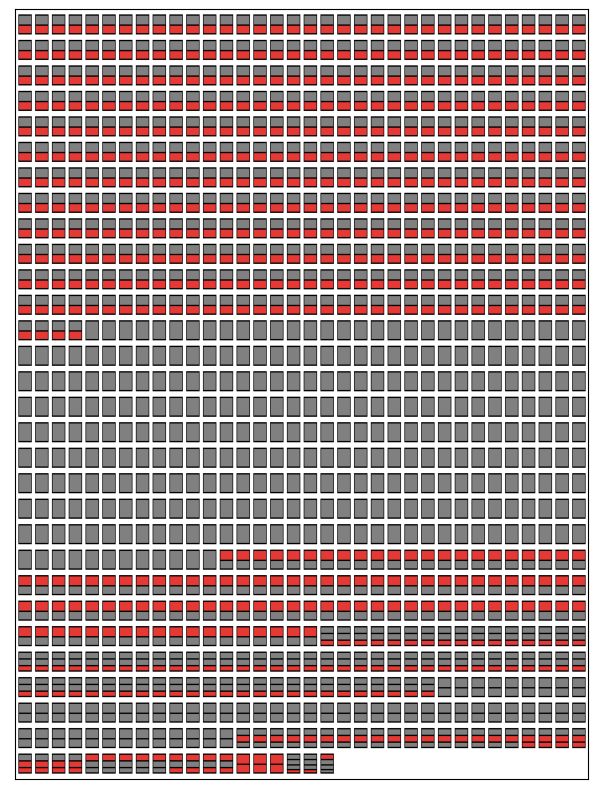
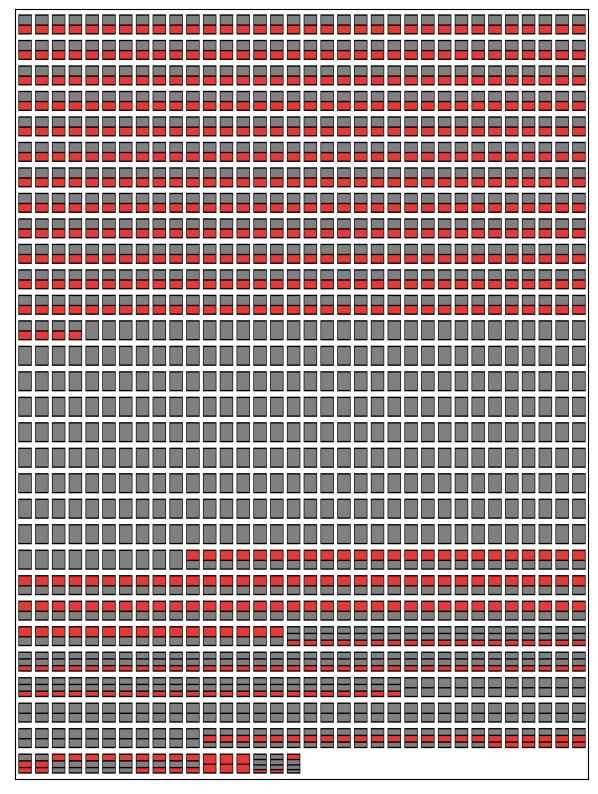
Fix encoding double marker bug.

diff --git a/assets/airline-names-01/scripts/encoding.py b/assets/airline-names-01/scripts/encoding.py
@@ -65,26 +65,45 @@ def encode_name_by_token_marker(
 
     for word in name.split():
 
-        if word in tokens:
+        if word in tokens or word in markers:
             encoded.append("T")
             continue
 
-        for marker in markers:
-            if word.startswith(marker):
-                encoded.append("t")
-                encoded.append("s")
-                break
+        if _starts_with_from_set(word, markers):
+            encoded.append("t")
 
-            if word.endswith(marker):
-                encoded.append("s")
+            if _ends_with_from_set(word, markers):
                 encoded.append("t")
-                break
-        else:
-            encoded.append("S")
+                continue
+
+            encoded.append("s")
+            continue
+
+        if _ends_with_from_set(word, markers):
+            encoded.append("s")
+            encoded.append("t")
+            continue
+
+        encoded.append("S")
 
     encoded = tuple(encoded)
 
     return encoded
+
+def _ends_with_from_set(string, strings):
+
+    for str_ in strings:
+        if string.endswith(str_):
+            return True
+    return False
+
+def _starts_with_from_set(string, strings):
+    
+    for str_ in strings:
+        if string.startswith(str_):
+            return True
+    return False
+
 
 
 def translate_to_colours(

diff --git a/_posts/2024-07-20-airline-names-01.md b/_posts/2024-07-20-airline-names-01.md
@@ -121,7 +121,7 @@ The following markers were indentified alltogether:
 
 ### Airline name patterns summary
 
-Having identified the markers and the specifier fragments, more granular naming patterns emerge -- twenty of them. Eighty percent of all names contain at least one reference to air travel. Whole word tokens are four times more prevalent than the markers.
+Having identified the markers and the specifier fragments, more granular naming patterns emerge -- twenty two of them. Eighty percent of all names contain at least one reference to air travel. Whole word tokens are four times more prevalent than the markers.
 
 Figure 6. arranges the airline names according to their naming patters. Markers are coloured in orange, fragment specifiers are distinguished by their pale gray shade.
 
@@ -138,23 +138,25 @@ Figure 7. The counts of airline naming patterns. Read each stack from top to bot
 
 Finally, an example of each pattern is provided below:
 1. `ST`: `Alaska Airlines`
-1. `S`: `Emirates`
-1. `st`: `Ryanair`
-1. `TS`: `Air Baltic`
-1. `SST`: `All Nippon Airways`
-1. `ts`: `Aeroflot`
-1. `SS`: `Cathay Pacific`
-1. `STS`: `Delta Air Lines`
-1. `tsT`: `SkyWest Express`
-1. `stT`: `Skyjet Airlines`
-1. `STT`: `Caicos Express Airways`
-1. `tsS`: `Skyhigh Dominicana`
-1. `TSS`: `Air New Zeeland`
-1. `TST`: `Air India Express`
-1. `Sts`: `Iran Airtour`
-1. `TT`: `Sky Airline`
-1. `SSST`: `Costa Rica Green Airways`
-1. `TSSS`: `Air China Inner Mongolia`
-1. `Sst`: `Malta Medair`
-1. `stS`: `Tigerair Taiwan`
+2. `S`: `Emirates`
+3. `st`: `Ryanair`
+4. `TS`: `Air Baltic`
+5. `SST`: `All Nippon Airways`
+6. `ts`: `Aeroflot`
+7. `SS`: `Cathay Pacific`
+8. `STS`: `Delta Air Lines`
+9. `tsT`: `SkyWest Express`
+10. `STT`: `Caicos Express Airways`
+11. `stT`: `Skyjet Airlines`
+12. `tsS`: `Skyhigh Dominicana`
+13. `TSS`: `Air New Zeeland`
+14. `TST`: `Air India Express`
+15. `Sts`: `Iran Airtour`
+16. `TT`: `Sky Airline`
+17. `tt`: `Air1Air`
+18. `SSST`: `Costa Rica Green Airways`
+19. `TSSS`: `Air China Inner Mongolia`
+20. `Sst`: `Malta Medair`
+21. `ttT`: `Skyjet Airlines`
+22. `stS`: `Tigerair Taiwan`
 
